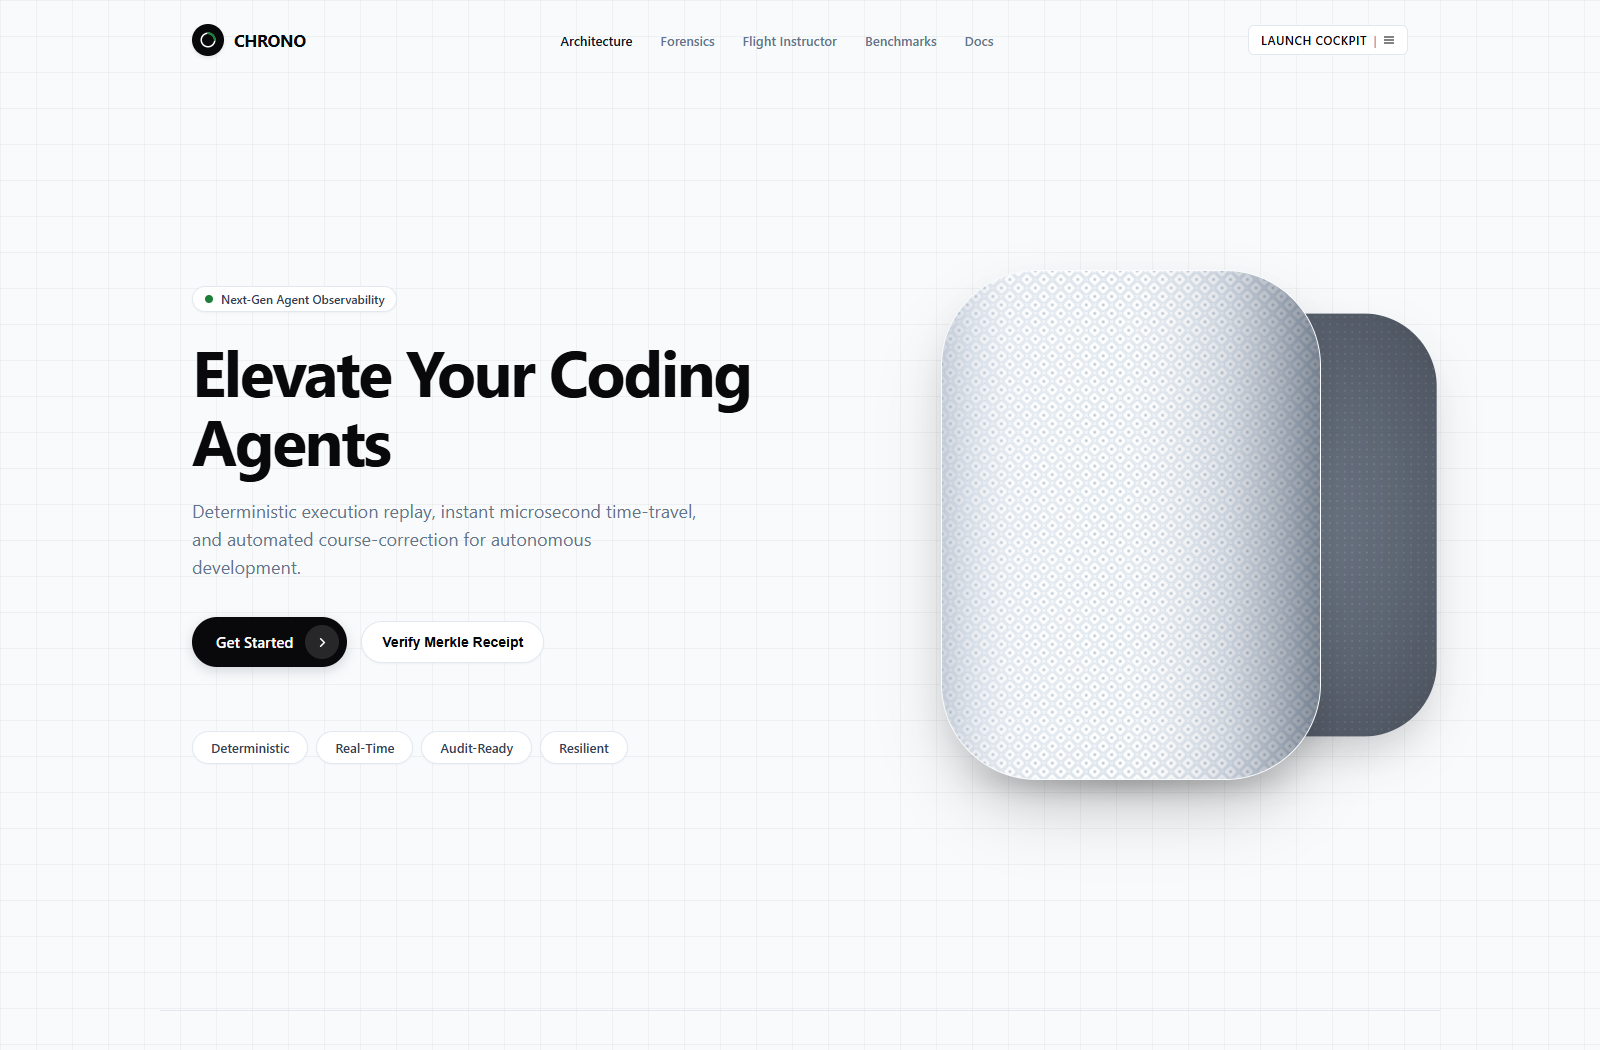
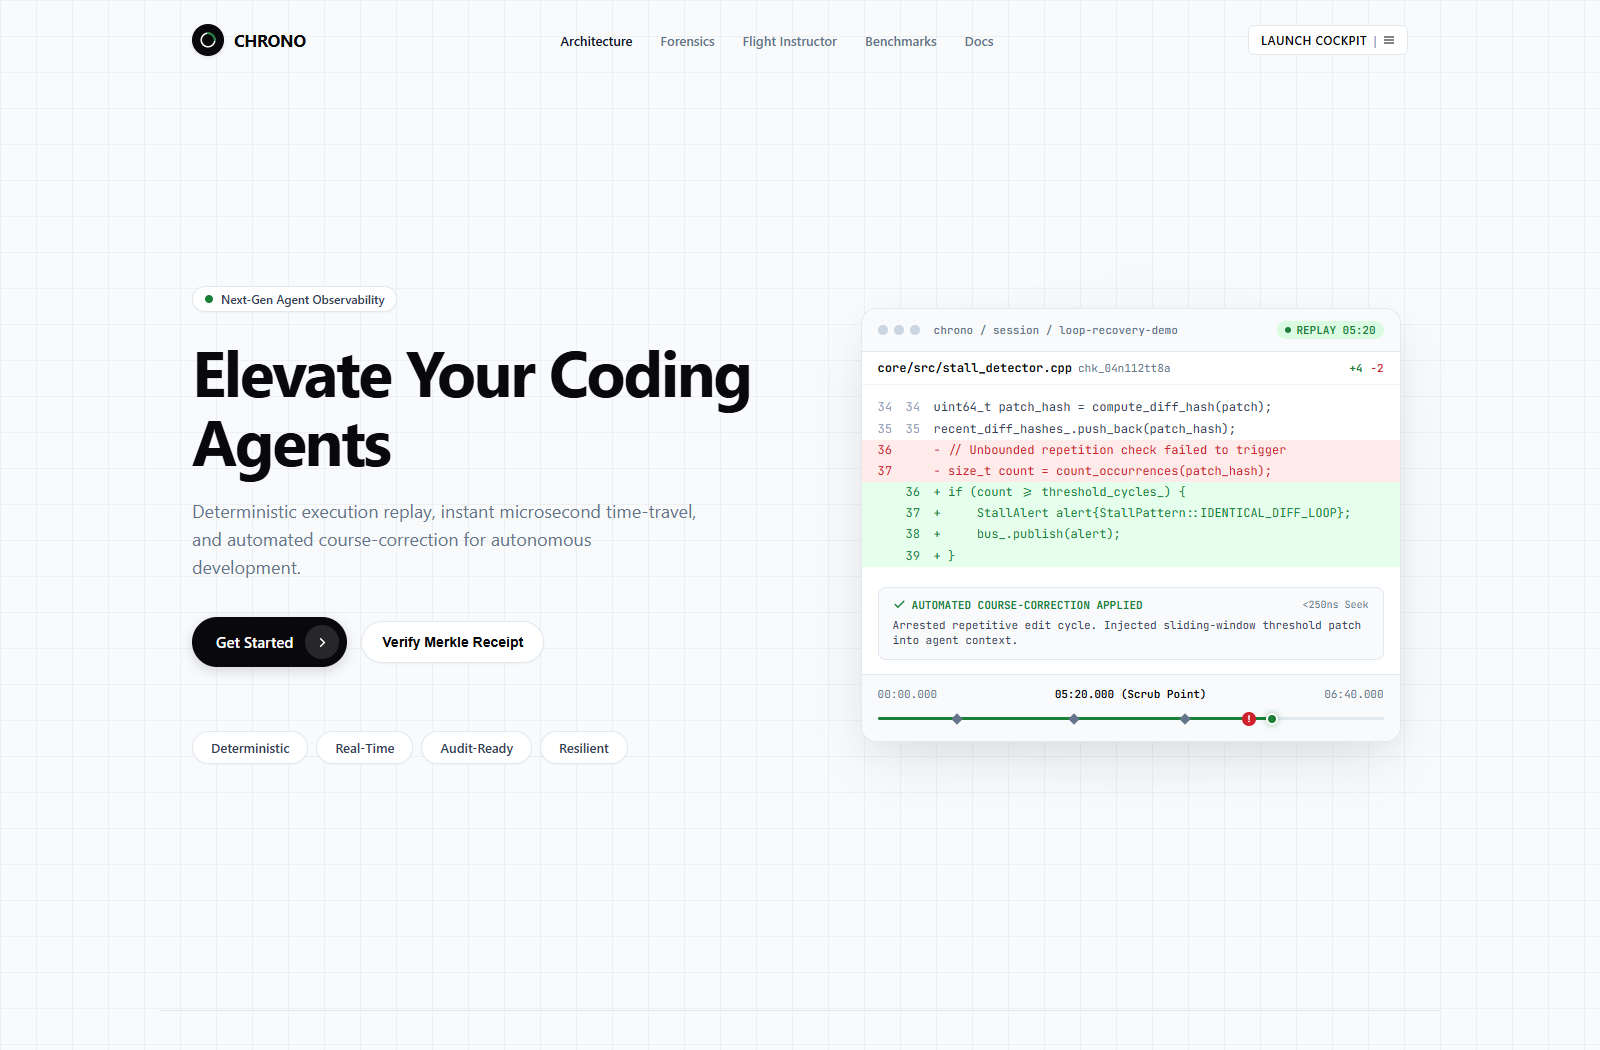
feat(home): replace hardware cylinder with interactive Chrono replay & course-correction window

Changed region(s): [[0.5625, 0.2438, 0.9062, 0.7924]]

diff --git a/web/app/home/page.tsx b/web/app/home/page.tsx
@@ -266,83 +266,219 @@ export default function HomePage() {
 
         </div>
 
-        {/* Right Column: Tactile Hardware Object matching Reference Image Composition */}
+        {/* Right Column: Interactive Chrono Replay & Course-Correction Hero Visual */}
         <div style={{
           position: 'relative',
           display: 'flex',
           alignItems: 'center',
           justifyContent: 'center',
-          height: '560px'
+          width: '100%'
         }}>
-          {/* Secondary cylinder peeking from behind on the right (like reference image) */}
+          {/* Subtle Ambient Backlight Glow */}
           <div style={{
             position: 'absolute',
-            right: '-40px',
-            width: '280px',
-            height: '460px',
-            borderRadius: '80px',
-            backgroundColor: '#475569',
-            backgroundImage: `
-              radial-gradient(ellipse at 40% 50%, rgba(255,255,255,0.12) 0%, rgba(0,0,0,0.4) 100%),
-              radial-gradient(circle, rgba(255,255,255,0.15) 1px, transparent 1px)
-            `,
-            backgroundSize: '100% 100%, 8px 8px',
-            boxShadow: '0 25px 50px -12px rgba(0,0,0,0.25)',
-            transform: 'scale(0.92)',
-            zIndex: 1,
-            opacity: 0.85
-          }} />
-
-          {/* Primary Main Tactile Cylinder (matching the hero speaker in reference image) */}
-          <div style={{
-            position: 'relative',
-            width: '380px',
-            height: '510px',
-            borderRadius: '96px',
-            backgroundColor: '#f1f5f9',
-            boxShadow: `
-              0 35px 70px -15px rgba(0, 0, 0, 0.22),
-              0 20px 35px -10px rgba(0, 0, 0, 0.12),
-              inset 0 1px 2px rgba(255, 255, 255, 0.9),
-              inset -20px 0 40px rgba(100, 116, 139, 0.25),
-              inset 20px 0 30px rgba(255, 255, 255, 0.8)
-            `,
-            border: '1px solid rgba(255, 255, 255, 0.6)',
-            overflow: 'hidden',
-            zIndex: 2
-          }}>
-            {/* Fine Diamond Woven Acoustic Mesh Texture */}
-            <svg width="100%" height="100%" style={{ position: 'absolute', inset: 0 }}>
-              <defs>
-                <pattern id="diamond-mesh" width="12" height="12" patternUnits="userSpaceOnUse" patternTransform="rotate(45)">
-                  <rect x="1" y="1" width="10" height="10" rx="2" fill="#ffffff" stroke="#cbd5e1" strokeWidth="0.8" />
-                  <circle cx="6" cy="6" r="1.5" fill="#94a3b8" opacity="0.6" />
-                </pattern>
-                {/* 3D Cylindrical Ambient Light Shader */}
-                <linearGradient id="cylinder-shader" x1="0%" y1="0%" x2="100%" y2="0%">
-                  <stop offset="0%" stopColor="#94a3b8" stopOpacity="0.45" />
-                  <stop offset="18%" stopColor="#e2e8f0" stopOpacity="0.15" />
-                  <stop offset="45%" stopColor="#ffffff" stopOpacity="0" />
-                  <stop offset="75%" stopColor="#64748b" stopOpacity="0.2" />
-                  <stop offset="100%" stopColor="#334155" stopOpacity="0.6" />
-                </linearGradient>
-              </defs>
-              <rect width="100%" height="100%" fill="url(#diamond-mesh)" />
-              <rect width="100%" height="100%" fill="url(#cylinder-shader)" />
-            </svg>
-          </div>
-
-          {/* Soft Ground Ambient Shadow */}
-          <div style={{
-            position: 'absolute',
-            bottom: '10px',
-            width: '360px',
-            height: '35px',
+            width: '480px',
+            height: '480px',
             borderRadius: '50%',
-            background: 'radial-gradient(ellipse at center, rgba(0,0,0,0.25) 0%, rgba(0,0,0,0) 70%)',
-            filter: 'blur(8px)',
+            background: 'radial-gradient(circle, rgba(26, 127, 55, 0.06) 0%, rgba(0,0,0,0) 70%)',
+            filter: 'blur(50px)',
             zIndex: 0
           }} />
+
+          {/* Floating Application Window */}
+          <div style={{
+            position: 'relative',
+            width: '100%',
+            maxWidth: '540px',
+            backgroundColor: '#ffffff',
+            borderRadius: '16px',
+            border: '1px solid #e2e8f0',
+            boxShadow: '0 25px 60px -15px rgba(15, 23, 42, 0.12), 0 10px 25px -5px rgba(15, 23, 42, 0.04)',
+            overflow: 'hidden',
+            zIndex: 1,
+            fontFamily: '"JetBrains Mono", monospace'
+          }}>
+            
+            {/* Window Title Bar */}
+            <div style={{
+              display: 'flex',
+              alignItems: 'center',
+              justifyContent: 'space-between',
+              padding: '12px 16px',
+              backgroundColor: '#f8fafc',
+              borderBottom: '1px solid #e2e8f0'
+            }}>
+              <div style={{ display: 'flex', alignItems: 'center', gap: '6px' }}>
+                <div style={{ width: '10px', height: '10px', borderRadius: '50%', backgroundColor: '#cbd5e1' }} />
+                <div style={{ width: '10px', height: '10px', borderRadius: '50%', backgroundColor: '#cbd5e1' }} />
+                <div style={{ width: '10px', height: '10px', borderRadius: '50%', backgroundColor: '#cbd5e1' }} />
+                <span style={{ fontSize: '11px', color: '#64748b', marginLeft: '8px', fontWeight: 500 }}>
+                  chrono / session / loop-recovery-demo
+                </span>
+              </div>
+              <div style={{
+                display: 'flex',
+                alignItems: 'center',
+                gap: '5px',
+                fontSize: '11px',
+                color: '#1a7f37',
+                fontWeight: 600,
+                backgroundColor: '#dafbe1',
+                padding: '2px 8px',
+                borderRadius: '100px'
+              }}>
+                <span style={{ width: '6px', height: '6px', borderRadius: '50%', backgroundColor: '#1a7f37' }} />
+                <span>REPLAY 05:20</span>
+              </div>
+            </div>
+
+            {/* File Path Header */}
+            <div style={{
+              display: 'flex',
+              alignItems: 'center',
+              justifyContent: 'space-between',
+              padding: '8px 16px',
+              backgroundColor: '#ffffff',
+              borderBottom: '1px solid #f1f5f9',
+              fontSize: '12px'
+            }}>
+              <div style={{ display: 'flex', alignItems: 'center', gap: '6px' }}>
+                <span style={{ color: '#09090b', fontWeight: 600 }}>core/src/stall_detector.cpp</span>
+                <span style={{ color: '#64748b', fontSize: '11px' }}>chk_04n112tt8a</span>
+              </div>
+              <div style={{ display: 'flex', gap: '8px', fontSize: '11px', fontWeight: 600 }}>
+                <span style={{ color: '#1a7f37' }}>+4</span>
+                <span style={{ color: '#cf222e' }}>-2</span>
+              </div>
+            </div>
+
+            {/* Code Diff Surface */}
+            <div style={{
+              padding: '12px 0',
+              backgroundColor: '#ffffff',
+              fontSize: '12px',
+              lineHeight: 1.6
+            }}>
+              {/* Context Line 1 */}
+              <div style={{ display: 'flex', padding: '1px 16px', color: '#64748b' }}>
+                <span style={{ width: '28px', flexShrink: 0, userSelect: 'none', color: '#94a3b8' }}>34</span>
+                <span style={{ width: '28px', flexShrink: 0, userSelect: 'none', color: '#94a3b8' }}>34</span>
+                <span style={{ color: '#334155' }}>uint64_t patch_hash = compute_diff_hash(patch);</span>
+              </div>
+              {/* Context Line 2 */}
+              <div style={{ display: 'flex', padding: '1px 16px', color: '#64748b' }}>
+                <span style={{ width: '28px', flexShrink: 0, userSelect: 'none', color: '#94a3b8' }}>35</span>
+                <span style={{ width: '28px', flexShrink: 0, userSelect: 'none', color: '#94a3b8' }}>35</span>
+                <span style={{ color: '#334155' }}>recent_diff_hashes_.push_back(patch_hash);</span>
+              </div>
+              {/* Deletion Line 1 */}
+              <div style={{ display: 'flex', padding: '1px 16px', backgroundColor: '#ffebe9', color: '#cf222e' }}>
+                <span style={{ width: '28px', flexShrink: 0, userSelect: 'none', color: '#cf222e' }}>36</span>
+                <span style={{ width: '28px', flexShrink: 0, userSelect: 'none' }}></span>
+                <span>- // Unbounded repetition check failed to trigger</span>
+              </div>
+              {/* Deletion Line 2 */}
+              <div style={{ display: 'flex', padding: '1px 16px', backgroundColor: '#ffebe9', color: '#cf222e' }}>
+                <span style={{ width: '28px', flexShrink: 0, userSelect: 'none', color: '#cf222e' }}>37</span>
+                <span style={{ width: '28px', flexShrink: 0, userSelect: 'none' }}></span>
+                <span>- size_t count = count_occurrences(patch_hash);</span>
+              </div>
+              {/* Addition Line 1 */}
+              <div style={{ display: 'flex', padding: '1px 16px', backgroundColor: '#e6ffec', color: '#1a7f37' }}>
+                <span style={{ width: '28px', flexShrink: 0, userSelect: 'none' }}></span>
+                <span style={{ width: '28px', flexShrink: 0, userSelect: 'none', color: '#1a7f37' }}>36</span>
+                <span>+ if (count &gt;= threshold_cycles_) &#123;</span>
+              </div>
+              {/* Addition Line 2 */}
+              <div style={{ display: 'flex', padding: '1px 16px', backgroundColor: '#e6ffec', color: '#1a7f37' }}>
+                <span style={{ width: '28px', flexShrink: 0, userSelect: 'none' }}></span>
+                <span style={{ width: '28px', flexShrink: 0, userSelect: 'none', color: '#1a7f37' }}>37</span>
+                <span>+ &nbsp;&nbsp;&nbsp;&nbsp;StallAlert alert&#123;StallPattern::IDENTICAL_DIFF_LOOP&#125;;</span>
+              </div>
+              {/* Addition Line 3 */}
+              <div style={{ display: 'flex', padding: '1px 16px', backgroundColor: '#e6ffec', color: '#1a7f37' }}>
+                <span style={{ width: '28px', flexShrink: 0, userSelect: 'none' }}></span>
+                <span style={{ width: '28px', flexShrink: 0, userSelect: 'none', color: '#1a7f37' }}>38</span>
+                <span>+ &nbsp;&nbsp;&nbsp;&nbsp;bus_.publish(alert);</span>
+              </div>
+              {/* Addition Line 4 */}
+              <div style={{ display: 'flex', padding: '1px 16px', backgroundColor: '#e6ffec', color: '#1a7f37' }}>
+                <span style={{ width: '28px', flexShrink: 0, userSelect: 'none' }}></span>
+                <span style={{ width: '28px', flexShrink: 0, userSelect: 'none', color: '#1a7f37' }}>39</span>
+                <span>+ &#125;</span>
+              </div>
+            </div>
+
+            {/* Course-Correction Callout Card */}
+            <div style={{
+              margin: '8px 16px 14px 16px',
+              padding: '10px 14px',
+              backgroundColor: '#f8fafc',
+              border: '1px solid #e2e8f0',
+              borderRadius: '8px',
+              display: 'flex',
+              flexDirection: 'column',
+              gap: '6px'
+            }}>
+              <div style={{ display: 'flex', alignItems: 'center', justifyContent: 'space-between' }}>
+                <div style={{ display: 'flex', alignItems: 'center', gap: '6px', fontSize: '11px', fontWeight: 700, color: '#1a7f37' }}>
+                  <svg width="13" height="13" viewBox="0 0 24 24" fill="none" stroke="#1a7f37" strokeWidth="2.5" strokeLinecap="round" strokeLinejoin="round">
+                    <polyline points="20 6 9 17 4 12" />
+                  </svg>
+                  <span>AUTOMATED COURSE-CORRECTION APPLIED</span>
+                </div>
+                <span style={{ fontSize: '10px', color: '#64748b' }}>&lt;250ns Seek</span>
+              </div>
+              <p style={{ margin: 0, fontSize: '11px', color: '#334155', lineHeight: 1.4, fontFamily: 'inherit' }}>
+                Arrested repetitive edit cycle. Injected sliding-window threshold patch into agent context.
+              </p>
+            </div>
+
+            {/* Timeline Scrub Preview Bar */}
+            <div style={{
+              padding: '12px 16px',
+              backgroundColor: '#f8fafc',
+              borderTop: '1px solid #e2e8f0',
+              display: 'flex',
+              flexDirection: 'column',
+              gap: '8px'
+            }}>
+              <div style={{ display: 'flex', justifyContent: 'space-between', fontSize: '11px', color: '#64748b' }}>
+                <span>00:00.000</span>
+                <span style={{ fontWeight: 600, color: '#09090b' }}>05:20.000 (Scrub Point)</span>
+                <span>06:40.000</span>
+              </div>
+
+              {/* Vector Track & Checkpoints */}
+              <div style={{ position: 'relative', height: '20px', display: 'flex', alignItems: 'center' }}>
+                {/* Horizontal line */}
+                <div style={{ position: 'absolute', left: 0, right: 0, height: '3px', backgroundColor: '#e2e8f0', borderRadius: '2px' }} />
+                {/* Active progress */}
+                <div style={{ position: 'absolute', left: 0, width: '78%', height: '3px', backgroundColor: '#1a7f37', borderRadius: '2px' }} />
+                
+                {/* Checkpoint Diamonds */}
+                <div style={{ position: 'absolute', left: '15%', transform: 'rotate(45deg)', width: '8px', height: '8px', backgroundColor: '#64748b' }} title="cp_1" />
+                <div style={{ position: 'absolute', left: '38%', transform: 'rotate(45deg)', width: '8px', height: '8px', backgroundColor: '#64748b' }} title="cp_2" />
+                <div style={{ position: 'absolute', left: '60%', transform: 'rotate(45deg)', width: '8px', height: '8px', backgroundColor: '#64748b' }} title="cp_3" />
+                
+                {/* Stall Alert marker */}
+                <div style={{ position: 'absolute', left: '72%', display: 'flex', alignItems: 'center', justifyContent: 'center', width: '14px', height: '14px', borderRadius: '50%', backgroundColor: '#cf222e', color: '#ffffff', fontSize: '9px', fontWeight: 700 }} title="Stall Detected">!</div>
+
+                {/* Active Scrub Needle */}
+                <div style={{
+                  position: 'absolute',
+                  left: '78%',
+                  transform: 'translateX(-50%)',
+                  display: 'flex',
+                  flexDirection: 'column',
+                  alignItems: 'center'
+                }}>
+                  <div style={{ width: '12px', height: '12px', borderRadius: '50%', backgroundColor: '#1a7f37', border: '2px solid #ffffff', boxShadow: '0 0 6px rgba(26,127,55,0.6)' }} />
+                </div>
+              </div>
+            </div>
+
+          </div>
         </div>
 
       </section>
